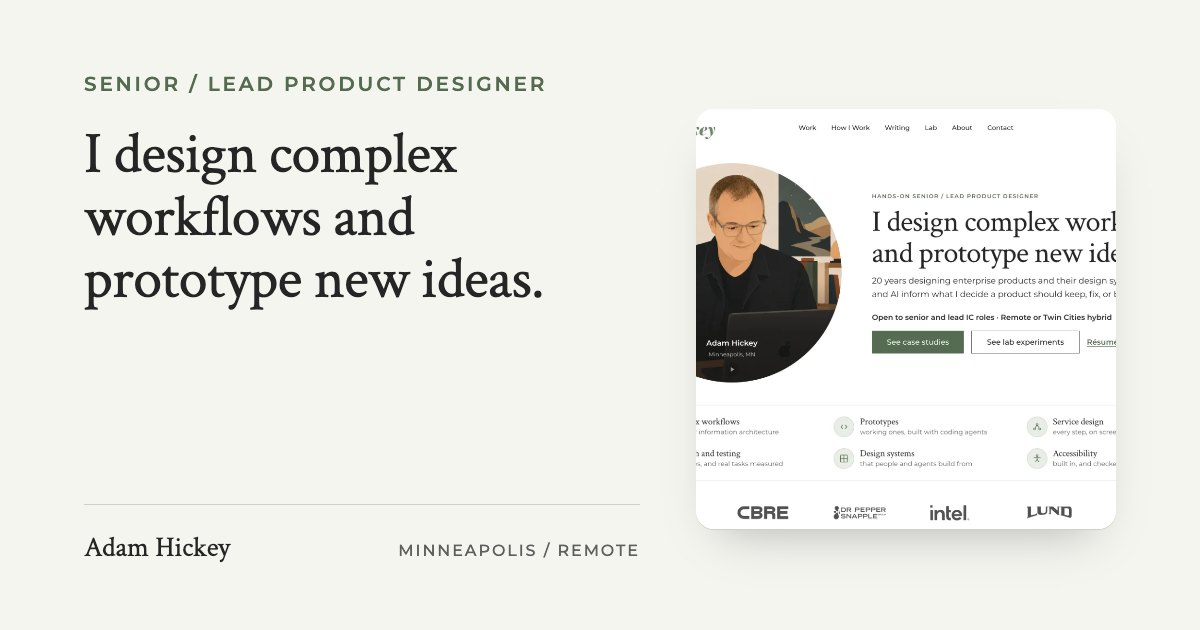
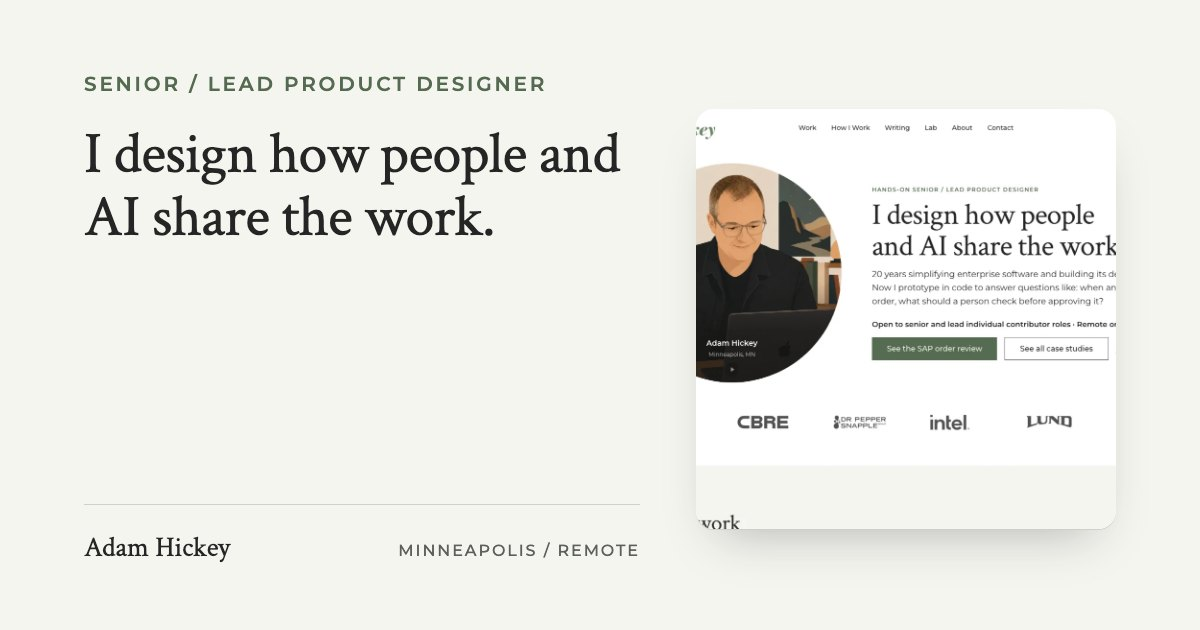
Home: "I design how people and AI share the work."
The hero takes a point of view and backs it with client work, at Adam's word.

- Headline: "I design how people and AI share the work." Two lines at every
  width from 375 to 1440.
- Dek: the twenty years (design systems kept), then the question the SAP
  order review answers: when an AI drafts an order, what should a person
  check before approving it?
- Buttons: "See the SAP order review" opens case-study/agentic-sto-approval
  .html; "See all case studies" is the ghost, to #enterprise-work. "See lab
  experiments" leaves the hero. The eyebrow, the availability line, and the
  résumé link stay.
- What copies the hero moved with it: og:description, the share card's
  title (og.mjs), llms.txt's summary, variant.mjs's base dek.
- img/site/this-site.webp retaken at 1440 with the new hero; its alt on
  This site updated; the index and this-site share cards re-rendered and
  their cache-busters bumped.

The <title> and description are search language and stay. style.css changes
a comment only.

diff --git a/index.html b/index.html
@@ -21,7 +21,7 @@
 
   <meta name="color-scheme" content="light" />
   <meta property="og:title" content="Adam Hickey | Senior Product Designer for Enterprise Software and Design Systems" />
-  <meta property="og:description" content="I design complex workflows and prototype new ideas. 20 years designing enterprise products and their design systems. Research and AI inform what I decide a product should keep, fix, or build next." />
+  <meta property="og:description" content="I design how people and AI share the work. 20 years simplifying enterprise software and building its design systems. Now I prototype in code to answer questions like: when an AI drafts an order, what should a person check before approving it?" />
   <meta property="og:type" content="website" />
   <!-- Absolute because scrapers do not resolve a relative og:image, and the
        canonical origin is the production one whichever host is serving this:
@@ -30,7 +30,7 @@
        "How a change reaches the live site". -->
   <link rel="canonical" href="https://adamhickey.com/" />
   <meta property="og:url" content="https://adamhickey.com/" />
-  <meta property="og:image" content="https://adamhickey.com/img/og/index.jpg?v=17" />
+  <meta property="og:image" content="https://adamhickey.com/img/og/index.jpg?v=18" />
   <meta property="og:image:width" content="1200" />
   <meta property="og:image:height" content="630" />
   <meta name="twitter:card" content="summary_large_image" />
@@ -51,7 +51,7 @@
           "jobTitle": "Senior Product Designer",
           "description": "Senior product designer for complex enterprise software, design systems, and agentic workflows, who builds what he designs, in Minneapolis.",
           "url": "https://adamhickey.com/",
-          "image": "https://adamhickey.com/img/og/index.jpg?v=17",
+          "image": "https://adamhickey.com/img/og/index.jpg?v=18",
           "email": "mailto:adam@adamhickey.com",
           "address": {
             "@type": "PostalAddress",
@@ -87,7 +87,7 @@
           "name": "Adam Hickey — Product Design",
           "description": "Adam Hickey's independent product design practice in Minneapolis, for complex enterprise software: design systems, modernizing legacy products, and AI product prototypes. Twenty years inside enterprise platforms, design systems, and products that outgrew their original shape.",
           "url": "https://adamhickey.com/",
-          "image": "https://adamhickey.com/img/og/index.jpg?v=17",
+          "image": "https://adamhickey.com/img/og/index.jpg?v=18",
           "founder": {
             "@id": "https://adamhickey.com/#adam"
           },
@@ -424,8 +424,15 @@
                is hiring for: complex workflows and prototypes. The same day it
                was cut to fit two lines from 430 up: the column holds about 26
                characters at full size, and "I simplify complex workflows" is
-               28, so the first wording ran to three. -->
-<h1 class="hero-title">I design complex workflows and prototype new ideas.</h1>
+               28, so the first wording ran to three. On 2026-11-22, at
+               Adam's word, it became a point of view rather than a job
+               description, "I design how people and AI share the work.",
+               backed by client work: the first button opens the SAP order
+               review, where a person checks an AI agent's orders before they
+               reach SAP. The share card, og:description, llms.txt's summary
+               and variant.mjs's base dek moved with it; the <title> and
+               description are search language and stayed. -->
+<h1 class="hero-title">I design how people and AI share the work.</h1>
           <!-- ONE PARAGRAPH, since 2026-10-09. The thesis came out: "AI is
                changing the shape of product design" is the one sentence on
                the page every reader already believes, and "I'm exploring
@@ -544,8 +551,14 @@
                WHAT THE HEADLINE AND THE STRIP DON'T SAY, the same day: the
                first version repeated prototypes from the headline, and the
                strip below names design systems, prototypes, and accessibility.
-               This says how long, where, and what a team gets. -->
-          <p class="hero-invite reveal">20 years designing enterprise products and their design systems. I use research and AI to decide what a product should keep, fix, or build next.</p>
+               This says how long, where, and what a team gets.
+
+               THE QUESTION THE WORK ANSWERS, since 2026-11-22, at Adam's
+               word, with the headline: the twenty years, then the question
+               the SAP order review answers, so the hero asks it and the first
+               button answers it. Design systems stay in the first sentence;
+               lead roles ask for them. -->
+          <p class="hero-invite reveal">20 years simplifying enterprise software and building its design systems. Now I prototype in code to answer questions like: when an AI drafts an order, what should a person check before approving it?</p>
           <!-- THE WORK LEADS, since 2026-09-19. "Start a conversation" was
                the filled button and "See selected work" the ghost beside it:
                two primary asks in one row, and the first of them asking for
@@ -617,11 +630,17 @@
                résumé link, as it did before #745.
 
                "SEE CASE STUDIES", since 2026-11-06, at Adam's word: the word a
-               recruiter is looking for. It still lands on #enterprise-work. -->
+               recruiter is looking for. It still lands on #enterprise-work.
+
+               ONE CASE STUDY FIRST, since 2026-11-22, at Adam's word: the
+               filled button opens the SAP order review, the case study the
+               headline and the dek point at, and the ghost is "See all case
+               studies", to #enterprise-work. "See lab experiments" left the
+               hero; the Lab is in the nav and in Selected work. -->
           <p class="hero-availability reveal"><span>Open to senior and lead individual contributor roles</span><span class="hero-availability-sep">&nbsp;&middot; </span><span>Remote or Twin Cities hybrid</span></p>
           <div class="cta-row hero-cta reveal">
-            <a href="#enterprise-work" class="btn btn-primary">See case studies</a>
-            <a href="#lab-work" class="btn btn-ghost btn-ghost-light">See lab experiments</a>
+            <a href="case-study/agentic-sto-approval.html" class="btn btn-primary">See the SAP order review</a>
+            <a href="#enterprise-work" class="btn btn-ghost btn-ghost-light">See all case studies</a>
             <a class="hero-resume" href="Adam%20Hickey%20Resume.pdf" target="_blank" rel="noopener noreferrer">R&eacute;sum&eacute; (PDF)<span class="product-link-ext" aria-hidden="true">&#8599;</span><span class="visually-hidden"> (opens in a new tab)</span></a>
           </div>
         </div>

diff --git a/case-study/this-site.html b/case-study/this-site.html
@@ -19,7 +19,7 @@
   <meta property="og:url" content="https://adamhickey.com/case-study/this-site.html" />
   <meta property="og:title" content="How I built this site | Adam Hickey" />
   <meta property="og:description" content="How adamhickey.com is built: thirty-four pages of plain HTML with no framework and no build step, three token files under four normative specs, and twelve checks that measure the rendered page before anything ships." />
-  <meta property="og:image" content="https://adamhickey.com/img/og/this-site.jpg?v=17" />
+  <meta property="og:image" content="https://adamhickey.com/img/og/this-site.jpg?v=18" />
   <meta property="og:image:width" content="1200" />
   <meta property="og:image:height" content="630" />
   <meta name="twitter:card" content="summary_large_image" />
@@ -40,7 +40,7 @@
           "description": "A build write-up for adamhickey.com: thirty-four pages of plain HTML with no framework and no build step, three token files under four normative specs, and twelve checks that measure the rendered page before anything ships.",
           "url": "https://adamhickey.com/case-study/this-site.html",
           "mainEntityOfPage": "https://adamhickey.com/case-study/this-site.html",
-          "image": "https://adamhickey.com/img/og/this-site.jpg?v=17",
+          "image": "https://adamhickey.com/img/og/this-site.jpg?v=18",
           "datePublished": "2026-09-17",
           "dateModified": "2026-11-17",
           "author": {
@@ -237,8 +237,8 @@
              sits one click away would be the one dishonest picture here. -->
         <figure class="build-shot">
           <div class="build-laptop"><div class="build-laptop-lid">
-              <img src="../img/site/this-site.webp?v=20" width="1400" height="875" fetchpriority="high" decoding="async"
-                   alt="The homepage of this site at laptop width: the portrait in a circle on the left, and on the right the title &ldquo;I design complex workflows and prototype new ideas.&rdquo; over two buttons. Under them, six capabilities in two rows of three and a row of six client wordmarks." />
+              <img src="../img/site/this-site.webp?v=21" width="1400" height="875" fetchpriority="high" decoding="async"
+                   alt="The homepage of this site at laptop width: the portrait in a circle on the left, and on the right the title &ldquo;I design how people and AI share the work.&rdquo; over two buttons, See the SAP order review and See all case studies. Under them, a row of six client wordmarks." />
             </div></div>
         </figure>
 

diff --git a/writing/how-do-you-write-design-quality-down-so-an-agent-can-use-it.html b/writing/how-do-you-write-design-quality-down-so-an-agent-can-use-it.html
@@ -313,7 +313,7 @@
           <h2 id="every-rule-on-this-site-came-from-a-failure">Every rule on this site came from a failure I found first</h2>
           <p>This site, my portfolio, is held to four written specs by twelve checks that measure the rendered page.</p>
           <figure class="writing-figure shift-work">
-            <img src="../img/site/this-site.webp?v=20" width="1400" height="875" alt="The homepage of this site at laptop width: the wordmark and navigation, a portrait in a circle, and the title beside it." loading="lazy" decoding="async" />
+            <img src="../img/site/this-site.webp?v=21" width="1400" height="875" alt="The homepage of this site at laptop width: the wordmark and navigation, a portrait in a circle, and the title beside it." loading="lazy" decoding="async" />
             <figcaption>
               <span class="shift-work-label">From my work</span>
               <span class="shift-work-line"><strong>This site.</strong> Every color, size, and space on the page is held by a written spec and a check.</span>

diff --git a/style.css b/style.css
@@ -494,7 +494,8 @@ p  { font-size: var(--text-base); line-height: var(--leading-body); color: var(-
 /* The hero's "See case studies" lands on the section head
    (#enterprise-work) since 2026-10-24, when the group label it used to
    land on came out. The label's clearance comes with it: the nav's height
-   and a step, so "Selected work" arrives under the bar, not behind it. */
+   and a step, so "Selected work" arrives under the bar, not behind it.
+   Since 2026-11-22 the button reads "See all case studies", the ghost. */
 .case-studies .section-head { scroll-margin-top: calc(var(--nav-height) + var(--space-xl)); }
 @media (min-width: 768px) { .case-grid--lab { grid-template-columns: 1fr; gap: var(--space-2xl); } }
 
